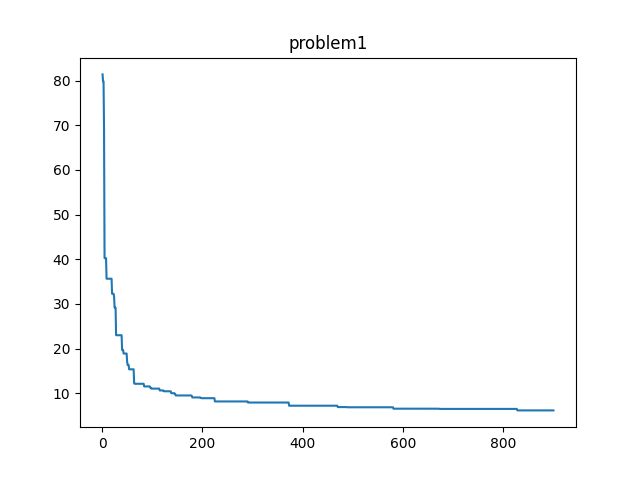
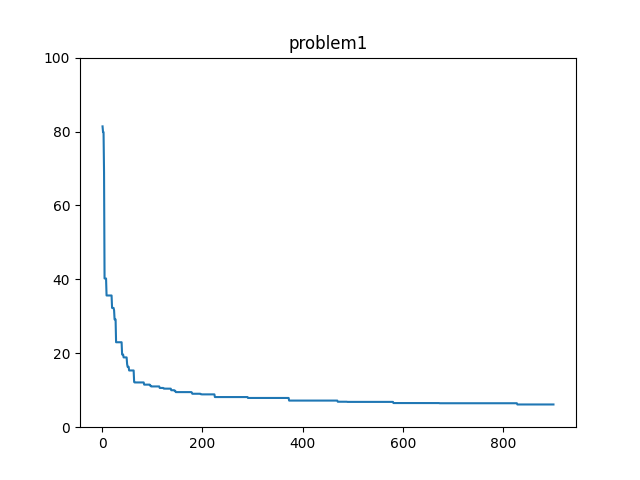
Set ylim for gapplot

diff --git a/visualisation/plot_objective_history.py b/visualisation/plot_objective_history.py
@@ -81,6 +81,10 @@ def plot_best(step=1, mode="gap"):
             json.dump(result, fp, sort_keys=True, indent=4)
 
         y_values = gap_list if mode == "gap" else best_list
+
+        if mode == "gap":
+            plt.ylim(0, 100)
+
         plt.plot(times, y_values, markersize=6)
         plt.title(problem)
         plt.savefig(filename)
